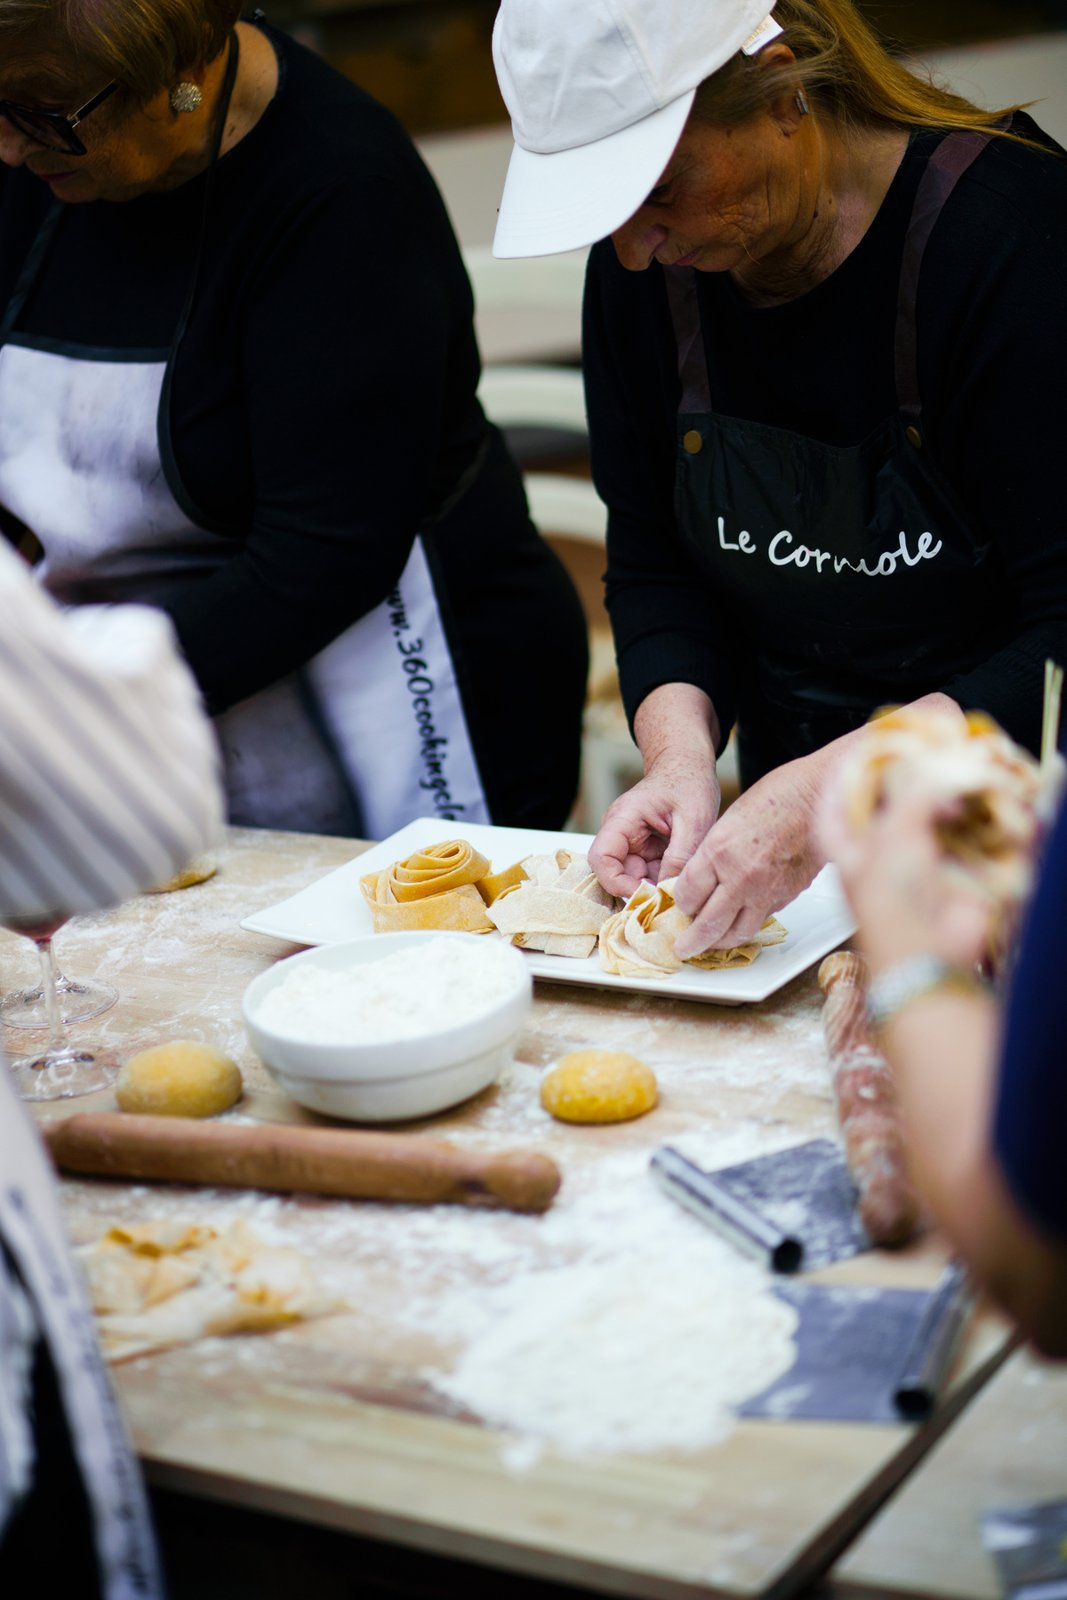
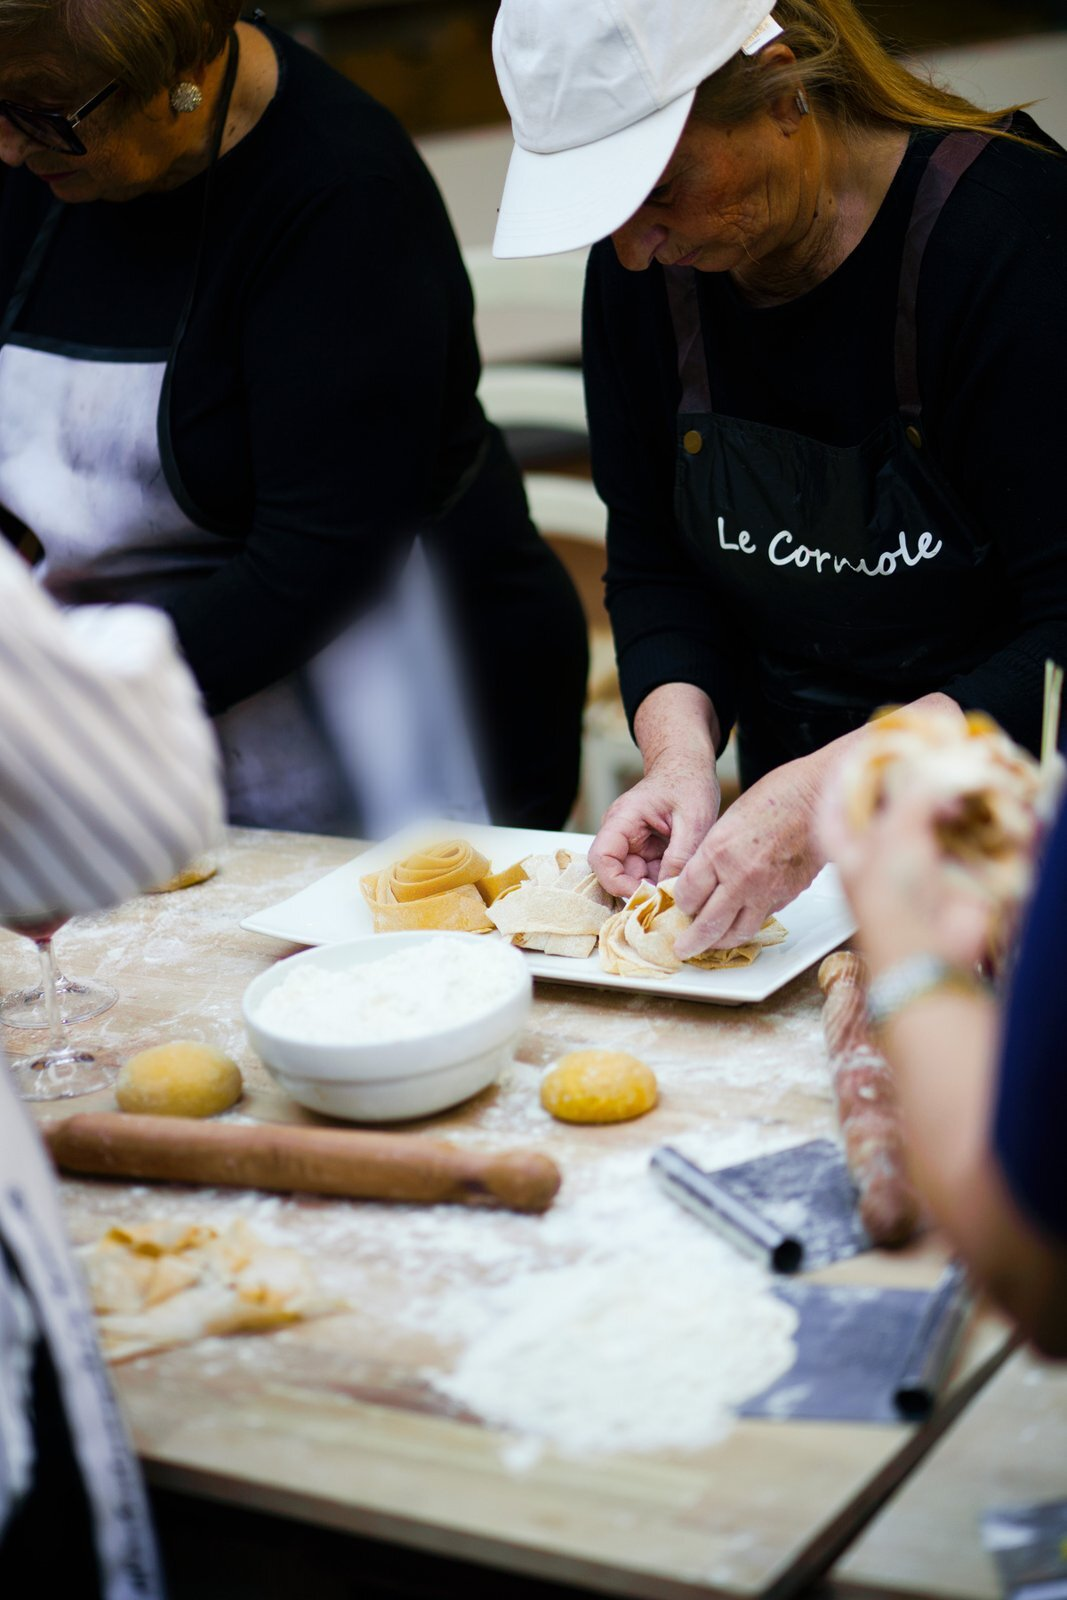
Hero mosaic: best photos first (tiramisu slice, pappardelle, group); blur third-party apron text in two photos
Claude-Session: https://claude.ai/code/session_013ioQyTnHeQ4jAhfEXPmYoU

Changed region(s): [[0.3093, 0.3125, 0.4948, 0.5625]]

diff --git a/it/index.html b/it/index.html
@@ -178,10 +178,10 @@
     <!-- ===== Mosaico foto ===== -->
     <div class="mosaic">
       <a class="m-main" href="#gallery"><img src="../assets/img/real-class.jpg" alt="Ospiti con i grembiuli preparano la pasta fresca durante la cooking class ad Arezzo" fetchpriority="high"></a>
-      <a href="#gallery"><img src="../assets/img/real-pasta-table.jpg" alt="Pasta fresca fatta a mano e ravioli sul tavolo della lezione con mattarelli e vino toscano"></a>
-      <a href="#gallery"><img src="../assets/img/real-tiramisu.jpg" alt="La chef impiatta il tiramisù preparato durante la cooking class di Arezzo"></a>
+      <a href="#gallery"><img src="../assets/img/tiramisu-slice-layers.jpg" alt="Fetta di tiramisù fatto in classe, con gli strati di crema e savoiardi al caffè"></a>
+      <a href="#gallery"><img src="../assets/img/pappardelle-terre-toscane.jpg" alt="Pappardelle al ragù fatte a mano servite con vino toscano a fine lezione"></a>
+      <a class="m-hide" href="#gallery"><img src="../assets/img/class-group-making-pasta.jpg" alt="Ospiti formano i ravioli insieme al grande tavolo infarinato" loading="lazy"></a>
       <a class="m-hide" href="#gallery"><img src="../assets/img/tiramisu-platter.jpg" alt="Grande tiramisù al cacao preparato dalla classe" loading="lazy"></a>
-      <a class="m-hide" href="#gallery"><img src="../assets/img/class-happy-guests.jpg" alt="Ospiti felici con matterelli e stampi a fine lezione" loading="lazy"></a>
       <a class="photos-btn" href="#gallery">Mostra tutte le foto</a>
     </div>
 

diff --git a/index.html b/index.html
@@ -258,10 +258,10 @@
     <!-- ===== Photo mosaic ===== -->
     <div class="mosaic">
       <a class="m-main" href="#gallery"><img src="assets/img/real-class.jpg" alt="Guests in aprons making fresh pasta during the cooking class in Arezzo" fetchpriority="high"></a>
-      <a href="#gallery"><img src="assets/img/real-pasta-table.jpg" alt="Fresh handmade pasta and ravioli on the class table with rolling pins and Tuscan wine"></a>
-      <a href="#gallery"><img src="assets/img/real-tiramisu.jpg" alt="Chef plating the tiramisù made during the Arezzo cooking class"></a>
+      <a href="#gallery"><img src="assets/img/tiramisu-slice-layers.jpg" alt="Slice of tiramisù made in class, showing layers of cream and coffee-soaked savoiardi"></a>
+      <a href="#gallery"><img src="assets/img/pappardelle-terre-toscane.jpg" alt="Handmade pappardelle al ragù served with Tuscan wine after the class"></a>
+      <a class="m-hide" href="#gallery"><img src="assets/img/class-group-making-pasta.jpg" alt="Guests shaping ravioli together at the long flour-dusted work table" loading="lazy"></a>
       <a class="m-hide" href="#gallery"><img src="assets/img/tiramisu-platter.jpg" alt="Large cocoa-dusted tiramisù made by the class" loading="lazy"></a>
-      <a class="m-hide" href="#gallery"><img src="assets/img/class-happy-guests.jpg" alt="Happy guests with rolling pins and ravioli stamps after the class" loading="lazy"></a>
       <a class="photos-btn" href="#gallery">Show all photos</a>
     </div>
 
